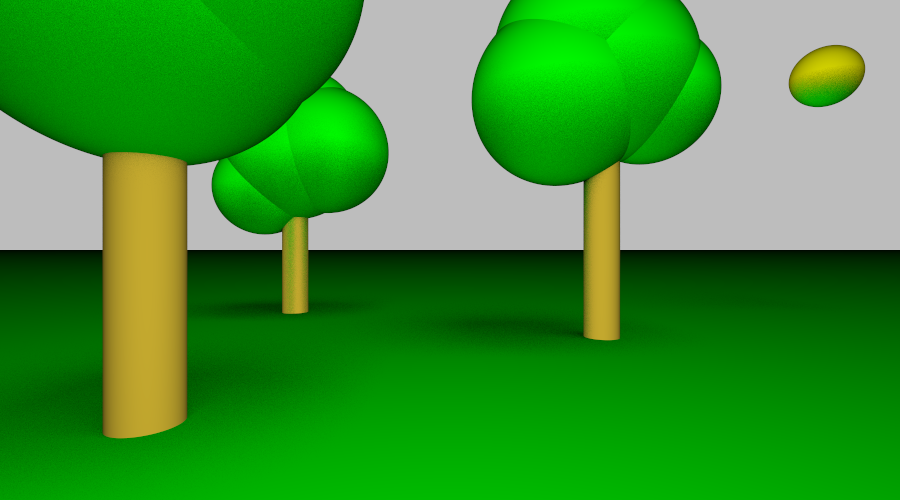
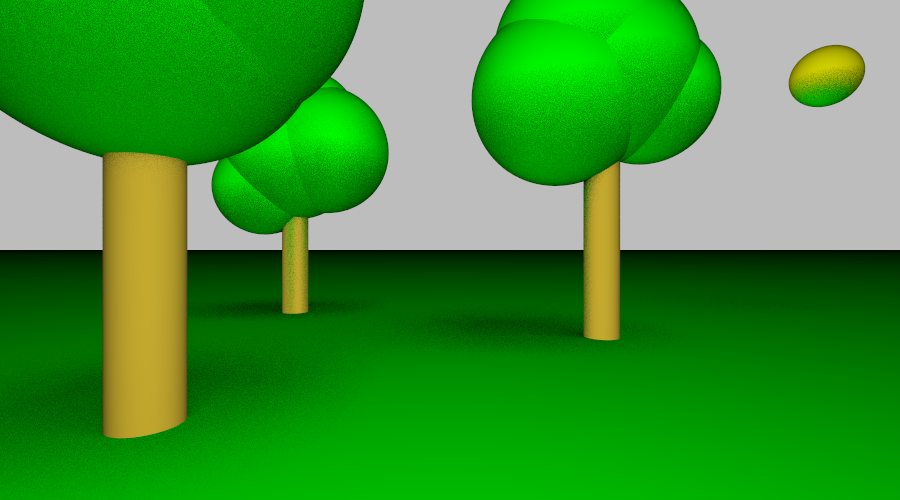
Adds some bounding box stuff!

diff --git a/cgg-abgaben/src/cgg/BoundingBox.java b/cgg-abgaben/src/cgg/BoundingBox.java
@@ -1,0 +1,149 @@
+//
+// Author: Henrik Tramberend <tramberend@beuth-hochschule.de>
+//
+
+package cgg;
+
+import static cgtools.Matrix.*;
+import static cgtools.Vector.*;
+
+import cgtools.*;
+
+public class BoundingBox {
+
+  public final Point min, max;
+
+  public static BoundingBox everything = new BoundingBox(Double.MAX_VALUE);
+  public static BoundingBox empty = new BoundingBox(-Double.MAX_VALUE);
+
+  private BoundingBox(double size) {
+    min = point(-size, -size, -size);
+    max = point(size, size, size);
+  }
+
+  public BoundingBox(Point min, Point max) {
+    this.min = min;
+    this.max = max;
+  }
+
+  public BoundingBox extend(BoundingBox bb) {
+    return new BoundingBox(point(Math.min(min.x, bb.min.x), Math.min(min.y, bb.min.y), Math.min(min.z, bb.min.z)),
+        point(Math.max(max.x, bb.max.x), Math.max(max.y, bb.max.y), Math.max(max.z, bb.max.z)));
+  }
+
+  public BoundingBox extend(Point p) {
+    return new BoundingBox(point(Math.min(min.x, p.x), Math.min(min.y, p.y), Math.min(min.z, p.z)),
+        point(Math.max(max.x, p.x), Math.max(max.y, p.y), Math.max(max.z, p.z)));
+  }
+
+  public BoundingBox splitLeft() {
+    Direction size2 = subtract(divide(directionTo(max), 2), divide(directionTo(min), 2));
+    if (size2.x >= size2.y && size2.x >= size2.z) {
+      return new BoundingBox(min, point(min.x + size2.x, max.y, max.z));
+    } else if (size2.y >= size2.x && size2.y >= size2.z) {
+      return new BoundingBox(min, point(max.x, min.y + size2.y, max.z));
+    } else {
+      return new BoundingBox(min, point(max.x, max.y, min.z + size2.z));
+    }
+  }
+
+  public BoundingBox splitRight() {
+    Direction size2 = subtract(divide(directionTo(max), 2), divide(directionTo(min), 2));
+    if (size2.x >= size2.y && size2.x >= size2.z) {
+      return new BoundingBox(point(min.x + size2.x, min.y, min.z), max);
+    } else if (size2.y >= size2.x && size2.y >= size2.z) {
+      return new BoundingBox(point(min.x, min.y + size2.y, min.z), max);
+    } else {
+      return new BoundingBox(point(min.x, min.y, min.z + size2.z), max);
+    }
+  }
+
+  public BoundingBox transform(Matrix xform) {
+    BoundingBox result = BoundingBox.empty;
+
+    result = result.extend(multiply(xform, min));
+    result = result.extend(multiply(xform, point(min.x, min.y, max.z)));
+    result = result.extend(multiply(xform, point(min.x, max.y, min.z)));
+    result = result.extend(multiply(xform, point(min.x, max.y, max.z)));
+    result = result.extend(multiply(xform, point(max.x, min.y, min.z)));
+    result = result.extend(multiply(xform, point(max.x, min.y, max.z)));
+    result = result.extend(multiply(xform, point(max.x, max.y, min.z)));
+    result = result.extend(multiply(xform, max));
+
+    return result;
+  }
+
+  public boolean contains(Point v) {
+    return min.x <= v.x && min.y <= v.y && min.z <= v.z && max.x >= v.x && max.y >= v.y && max.z >= v.z;
+  }
+
+  public boolean contains(BoundingBox bb) {
+    return min.x <= bb.min.x && min.y <= bb.min.y && min.z <= bb.min.z && max.x >= bb.max.x && max.y >= bb.max.y
+        && max.z >= bb.max.z;
+  }
+
+  //
+  // Adapted from
+  // https://tavianator.com/cgit/dimension.git/tree/libdimension/bvh/bvh.c
+  //
+  public boolean intersect(Ray ray) {
+    if (this.equals(everything))
+      return true;
+    if (this.contains(ray.pointAt(ray.tmin)))
+      return true;
+    if (this.contains(ray.pointAt(ray.tmax)))
+      return true;
+
+    double dix = 1.0 / ray.d.x;
+    double diy = 1.0 / ray.d.y;
+    double diz = 1.0 / ray.d.z;
+
+    double tx1 = (min.x - ray.origin.x) * dix;
+    double tx2 = (max.x - ray.origin.x) * dix;
+
+    double tmin = Math.min(tx1, tx2);
+    double tmax = Math.max(tx1, tx2);
+
+    double ty1 = (min.y - ray.origin.y) * diy;
+    double ty2 = (max.y - ray.origin.y) * diy;
+
+    tmin = Math.max(tmin, Math.min(ty1, ty2));
+    tmax = Math.min(tmax, Math.max(ty1, ty2));
+
+    double tz1 = (min.z - ray.origin.z) * diz;
+    double tz2 = (max.z - ray.origin.z) * diz;
+
+    tmin = Math.max(tmin, Math.min(tz1, tz2));
+    tmax = Math.min(tmax, Math.max(tz1, tz2));
+
+    return (tmax >= tmin && ray.contains(tmin));
+  }
+
+  public Vector size() {
+    return subtract(max, min);
+  }
+
+  public Point center() {
+    return interplolate(max, min, 0.5);
+  }
+
+  public BoundingBox scale(double factor) {
+    Point c = center();
+    return new BoundingBox(add(multiply(factor, subtract(min, c)), c), add(multiply(factor, subtract(max, c)), c));
+  }
+
+  @Override
+  public boolean equals(Object o) {
+    if (!(o instanceof BoundingBox))
+      return false;
+    if (o == this)
+      return true;
+    BoundingBox v = (BoundingBox) o;
+    return min.equals(v.min) && max.equals(v.max);
+  }
+
+  @Override
+  public String toString() {
+    return String.format("(BBox: %s %s)", min, max);
+  }
+}

diff --git a/cgg-abgaben/src/cgg/Zylinder.java b/cgg-abgaben/src/cgg/Zylinder.java
@@ -84,5 +84,10 @@ public class Zylinder implements Shape {
 		return hit;
 
 	}
+	
+	@Override
+	public BoundingBox bounds() {
+		return new BoundingBox( Vector.point(pos.x - radius, pos.y, pos.z - radius), Vector.point(pos.x + radius, pos.y + height, pos.z + radius) );
+	}
 
 }

diff --git a/cgg-abgaben/src/cgg/Ball.java b/cgg-abgaben/src/cgg/Ball.java
@@ -47,4 +47,10 @@ public class Ball implements Shape {
 		
 		return hit;
 	}
+	
+	
+	@Override
+	public BoundingBox bounds() {
+		return new BoundingBox(Vector.point(m.x - r, m.y - r, m.z - r), Vector.point(m.x + r, m.y + r, m.z + r) );
+	}
 }

diff --git a/cgg-abgaben/src/cgg/Ray.java b/cgg-abgaben/src/cgg/Ray.java
@@ -16,5 +16,9 @@ public class Ray {
 	public Point pointAt(double t) {
 		return Vector.add(origin , Vector.multiply(d, t) ); // x0 + t * d
 	}
+	
+	public boolean contains(double t) {
+		return t>= tmin && t <= tmax;
+	}
 
 }

diff --git a/cgg-abgaben/src/cgg/MultiSampler.java b/cgg-abgaben/src/cgg/MultiSampler.java
@@ -8,7 +8,7 @@ import cgtools.Sampler;
 
 public class MultiSampler {
 
-	private static int n = 10;
+	private static int n = 5;
 	
 	public static Color multiSample(int x, int y, Sampler sampler) {
 		Color color = black;

diff --git a/cgg-abgaben/src/cgg/MultiThreadedImageCreator.java b/cgg-abgaben/src/cgg/MultiThreadedImageCreator.java
@@ -56,7 +56,5 @@ public class MultiThreadedImageCreator {
 		} catch (InterruptedException e) {
 			e.printStackTrace();
 		}
-		
-		System.out.println("Now we wait for all threads to finish!");
 	}
 }

diff --git a/cgg-abgaben/src/cgg/Background.java b/cgg-abgaben/src/cgg/Background.java
@@ -27,5 +27,10 @@ public class Background implements Shape{
 		
 		return hit;
 	}
+	
+	@Override
+	public BoundingBox bounds() {
+		return BoundingBox.everything;
+	}
 
 }

diff --git a/cgg-abgaben/src/cgg/Group.java b/cgg-abgaben/src/cgg/Group.java
@@ -30,5 +30,10 @@ public class Group implements Shape {
 		
 		return hit;
 	}
+	
+	@Override
+	public BoundingBox bounds() {
+		return BoundingBox.everything;
+	}
 
 }

diff --git a/cgg-abgaben/src/cgg/Plane.java b/cgg-abgaben/src/cgg/Plane.java
@@ -33,5 +33,10 @@ public class Plane implements Shape {
 		
 		return hit;
 	}
+	
+	@Override
+	public BoundingBox bounds() {
+		return BoundingBox.everything;
+	}
 
 }

diff --git a/cgg-abgaben/src/cgg/Shape.java b/cgg-abgaben/src/cgg/Shape.java
@@ -3,4 +3,6 @@ package cgg;
 public interface Shape {
 
 	public Hit intersect(Ray ray);
+	
+	public BoundingBox bounds();
 }
